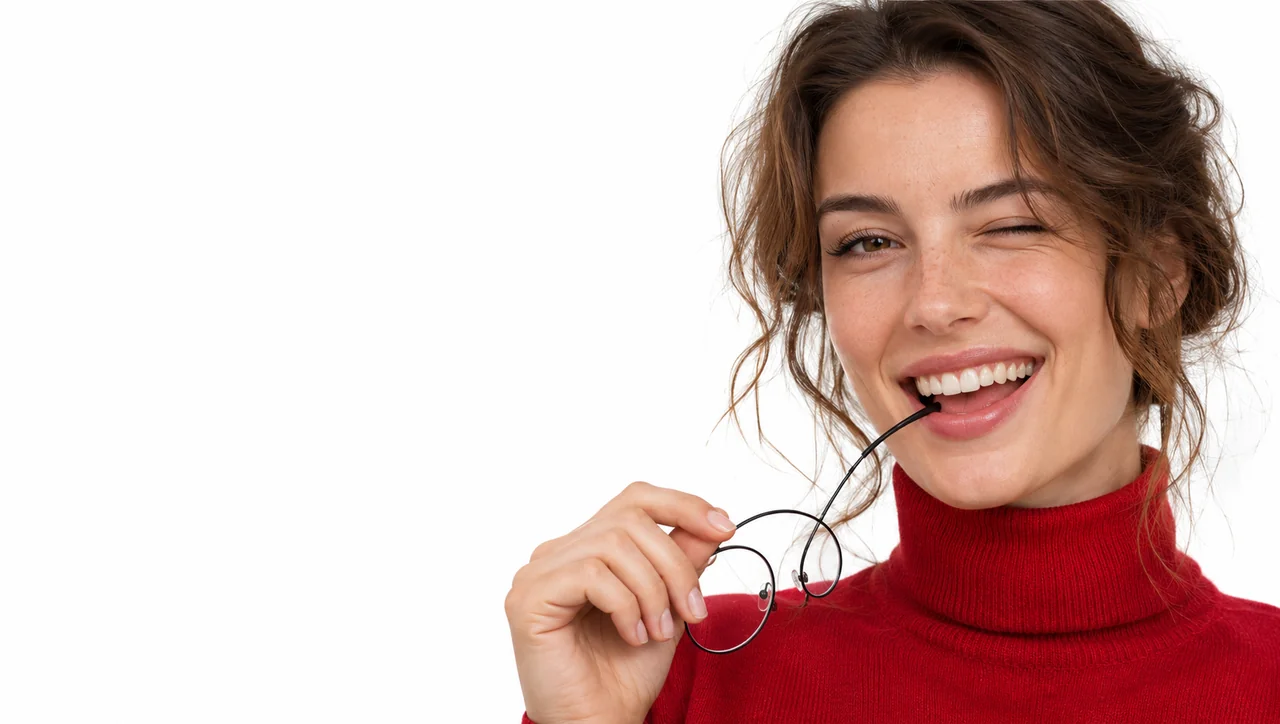
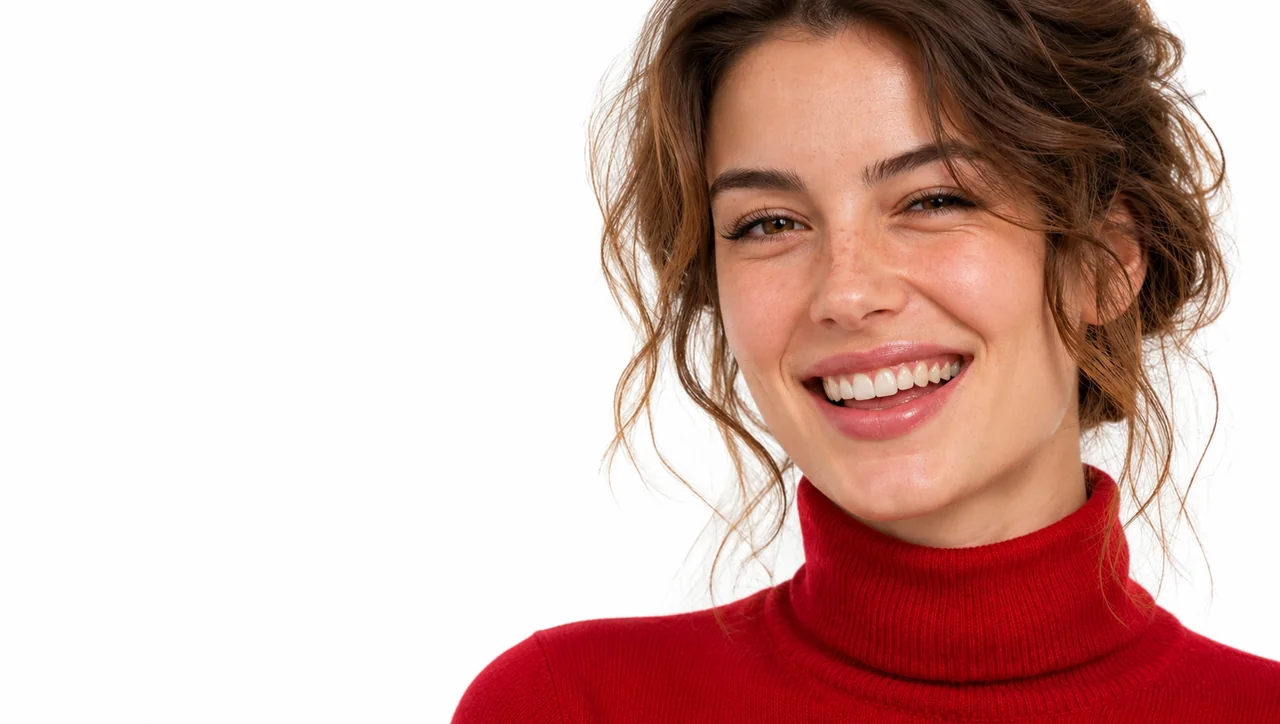
Эмаль: новое главное фото без сбоев с очками, превью обновлены
Claude-Session: https://claude.ai/code/session_01TEWPiJ67cBUyY2FMycnG2u

diff --git a/works/index.html b/works/index.html
@@ -117,8 +117,8 @@
 </a><a class="work rv" href="/portfolio/skin-atelier/" data-group="Здоровье и красота" data-long="/assets/portfolio/long/skin-atelier.webp?v=13">
 <div class="work-pic"><img src="/assets/portfolio/thumbs/skin-atelier.webp?v=12" width="1280" height="800" alt="Сайт Скин Ателье, первый экран" loading="lazy" decoding="async"></div>
 <div class="work-info"><div><h3>Скин Ателье</h3><p>Консультации и уход за кожей · Екатеринбург</p></div><span class="work-go">Открыть <svg viewBox="0 0 24 24" fill="none" stroke="currentColor" stroke-width="2" stroke-linecap="round" aria-hidden="true"><path d="M7 17 17 7M8 7h9v9"/></svg></span></div>
-</a><a class="work rv" href="/portfolio/emal/" data-group="Здоровье и красота" data-long="/assets/portfolio/long/emal.webp?v=14">
-<div class="work-pic"><img src="/assets/portfolio/thumbs/emal.webp?v=14" width="1280" height="800" alt="Сайт Эмаль, первый экран" loading="lazy" decoding="async"></div>
+</a><a class="work rv" href="/portfolio/emal/" data-group="Здоровье и красота" data-long="/assets/portfolio/long/emal.webp?v=15">
+<div class="work-pic"><img src="/assets/portfolio/thumbs/emal.webp?v=15" width="1280" height="800" alt="Сайт Эмаль, первый экран" loading="lazy" decoding="async"></div>
 <div class="work-info"><div><h3>Эмаль</h3><p>Стоматологическая клиника · Ярославль</p></div><span class="work-go">Открыть <svg viewBox="0 0 24 24" fill="none" stroke="currentColor" stroke-width="2" stroke-linecap="round" aria-hidden="true"><path d="M7 17 17 7M8 7h9v9"/></svg></span></div>
 </a></div>
 </section>

diff --git a/portfolio/emal/index.html b/portfolio/emal/index.html
@@ -529,7 +529,7 @@ select.in-x{appearance:none;-webkit-appearance:none;background:#fff url("data:im
 
  /* мозаика: карточки показывают разные окна одной фотографии */
  var SRC={s1:'/assets/portfolio/emal/hero.webp',s2:'/assets/portfolio/emal/smile.webp'};
- var FOCAL={s1:function(m){return m?.7:.8},s2:function(m){return m?.65:.8}};
+ var FOCAL={s1:function(m){return m?.8:.8},s2:function(m){return m?.65:.8}};
  function offs(el,sec){var x=0,y=0;while(el&&el!==sec){x+=el.offsetLeft;y+=el.offsetTop;el=el.offsetParent}return[x,y]}
  function setup(key,sec){
   var cards=[].slice.call(sec.querySelectorAll('[data-mask="'+key+'"]')),im=new Image(),raf=0;
